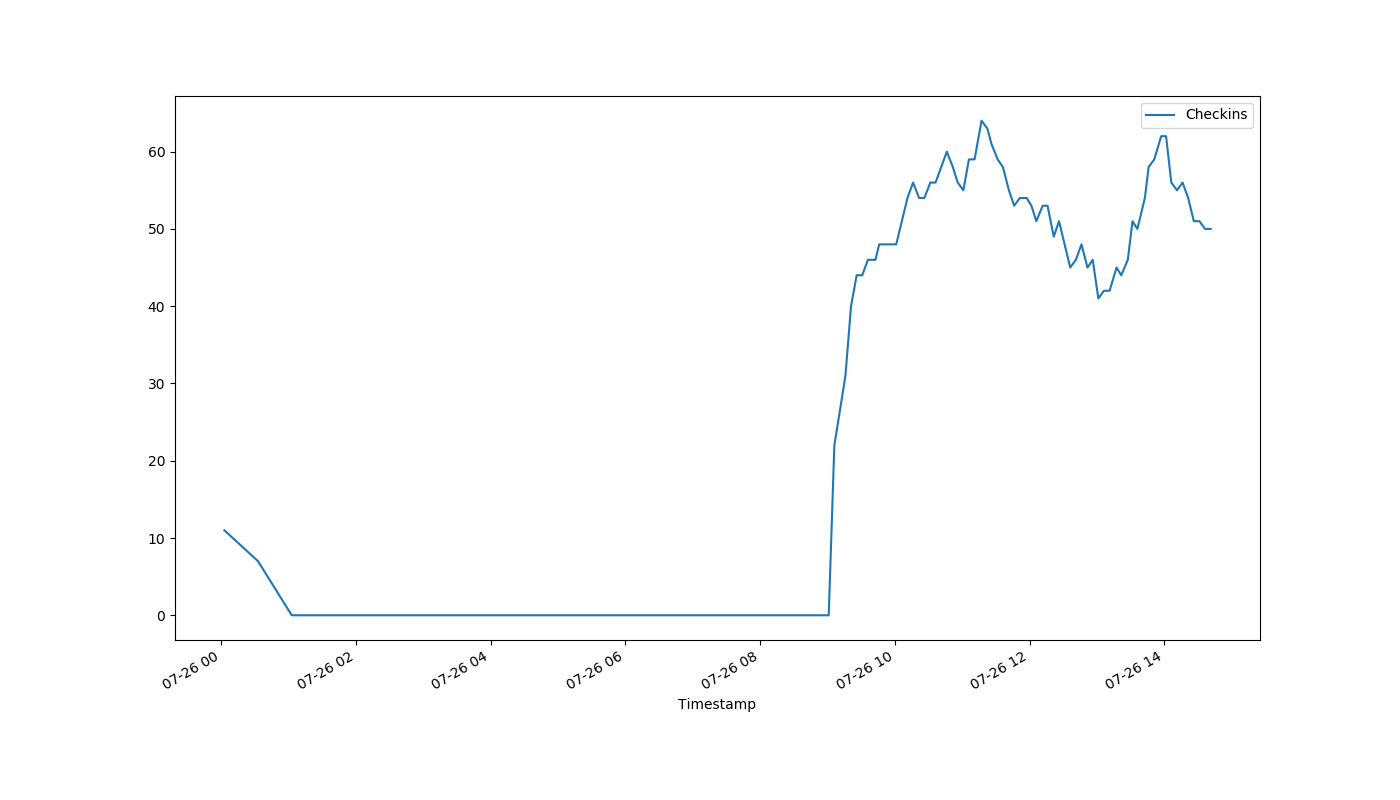
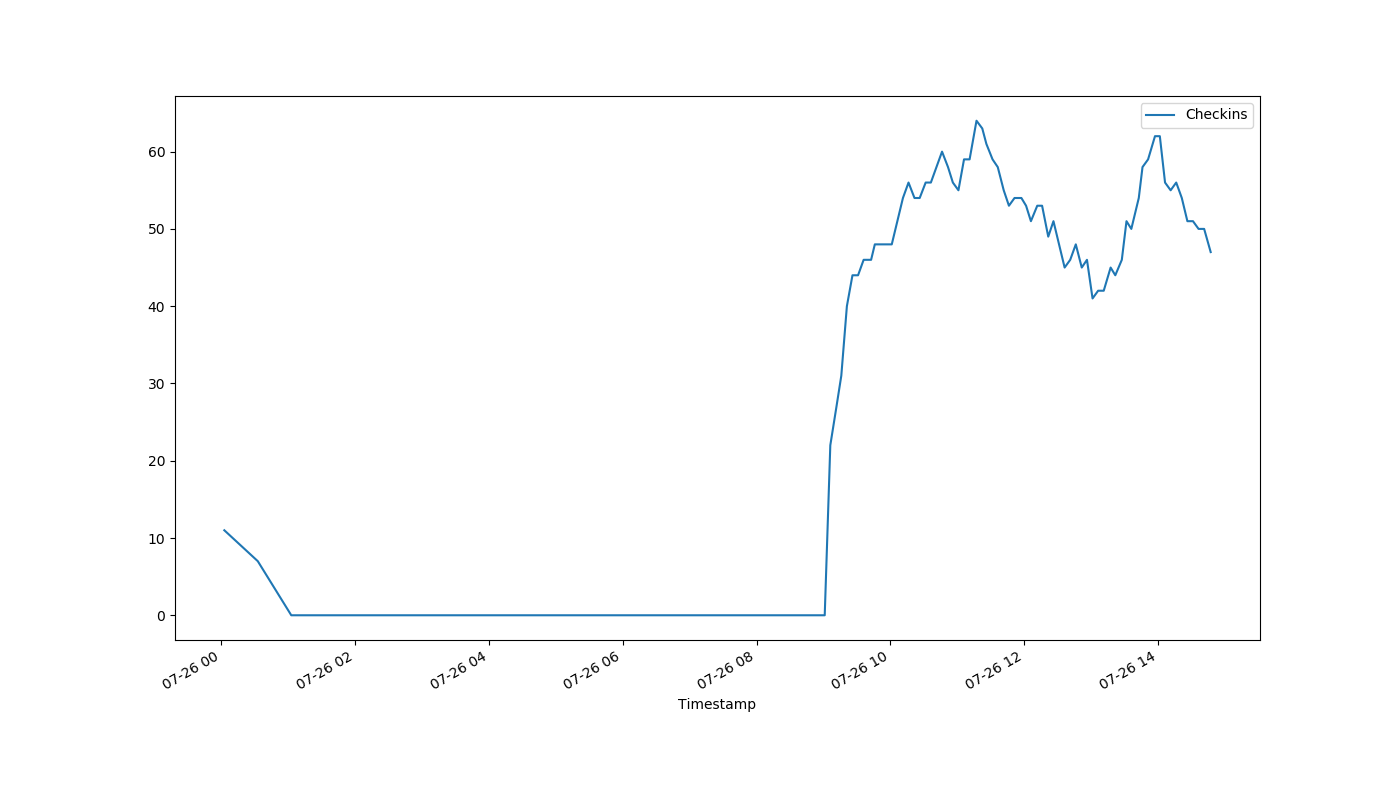
auto-Jul-26-14:49:40

diff --git a/index.html b/index.html
@@ -1,1 +1,1 @@
-<!DOCTYPE html><html><head><meta http-equiv="refresh" content="30"><link rel='stylesheet' href='holmcurrent.css'></head><body><p id='count'>-1</p><div id='graph-wrap'><img id='graph' src='holmgraph-Jul-26.png'></div><p id='updated'>Last updated 14:47:06 / 14:46:00</p></body></html>
+<!DOCTYPE html><html><head><meta http-equiv="refresh" content="30"><link rel='stylesheet' href='holmcurrent.css'></head><body><p id='count'>47</p><div id='graph-wrap'><img id='graph' src='holmgraph-Jul-26.png'></div><p id='updated'>Last updated 14:48:07 / 14:47:10</p></body></html>
